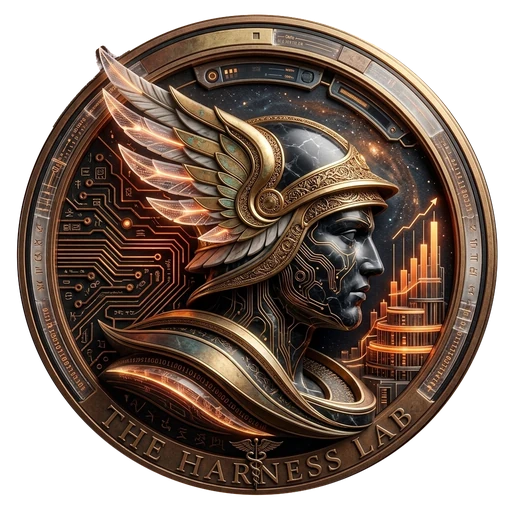
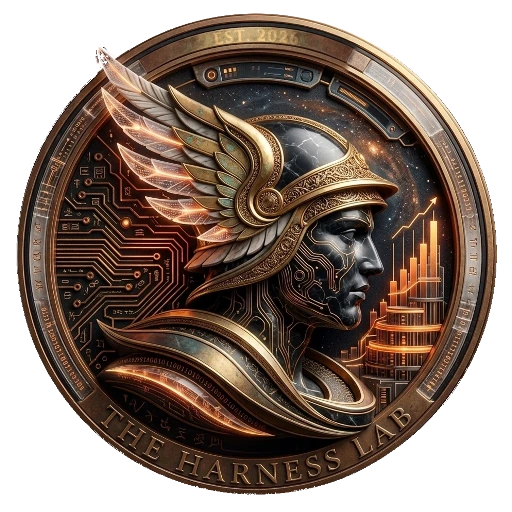
Add "Est. 2026" to the medallion rim and remove the caduceus from the black marble face
Both medallion faces (white/copper obverse and black marble reverse) now carry
"EST. 2026" in Cinzel on the top plate of the outer ring, smaller and lower in
contrast than THE HARNESS LAB. The small square and glass panel that sat there
were replaced with mirrored clean plate. The caduceus on the black marble face
is removed: the lettered band is taken from the obverse (identical layout,
colour-matched) and the field behind the wings is blended from either side.

Albedo, relief/specular (R/B of the height map; the G silhouette SDF is
untouched) and emissive maps were edited together so the 3D medallion lights
the new lettering as raised bronze. The flat brand logos (black marble, copper
marble, hero-aligned, all sizes) are regenerated from the edited textures at
each file's original framing. Texture URLs carry ?v=est2026 to bust caches.

Claude-Session: https://claude.ai/code/session_01BDFNo2HkiY8VR68yUxt8uX

Changed region(s): [[0.0312, 0.0, 0.9688, 0.9688]]

diff --git a/src/components/Medallion/renderer.js b/src/components/Medallion/renderer.js
@@ -3,12 +3,12 @@
 import { FRAGMENT_SHADER, VERTEX_SHADER } from "./shader.js";
 
 const TEXTURES = [
-  ["uObvAlb", "/medallion/obvAlb.webp"],
-  ["uObvHgt", "/medallion/obvHgt.png"],
-  ["uObvEmi", "/medallion/obvEmi.webp"],
-  ["uRevAlb", "/medallion/revAlb.webp"],
-  ["uRevHgt", "/medallion/revHgt.png"],
-  ["uRevEmi", "/medallion/revEmi.webp"],
+  ["uObvAlb", "/medallion/obvAlb.webp?v=est2026"],
+  ["uObvHgt", "/medallion/obvHgt.png?v=est2026"],
+  ["uObvEmi", "/medallion/obvEmi.webp?v=est2026"],
+  ["uRevAlb", "/medallion/revAlb.webp?v=est2026"],
+  ["uRevHgt", "/medallion/revHgt.png?v=est2026"],
+  ["uRevEmi", "/medallion/revEmi.webp?v=est2026"],
 ];
 
 // Quality tiers: march steps, shadow steps, and a drawing-buffer scale.
